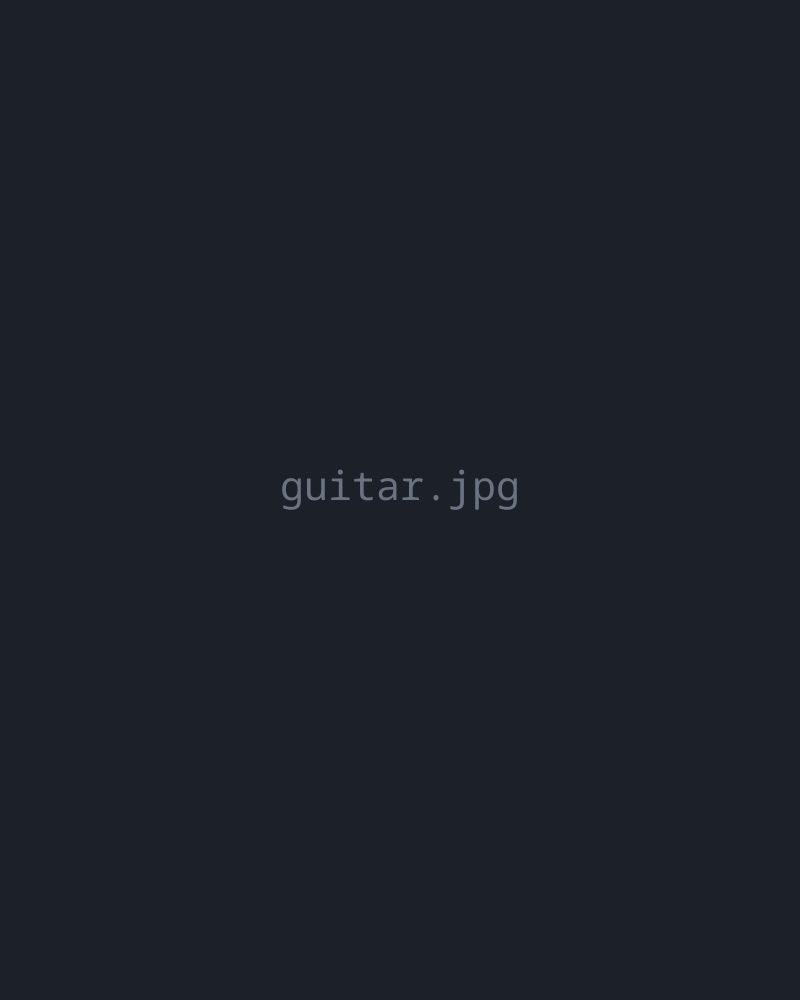
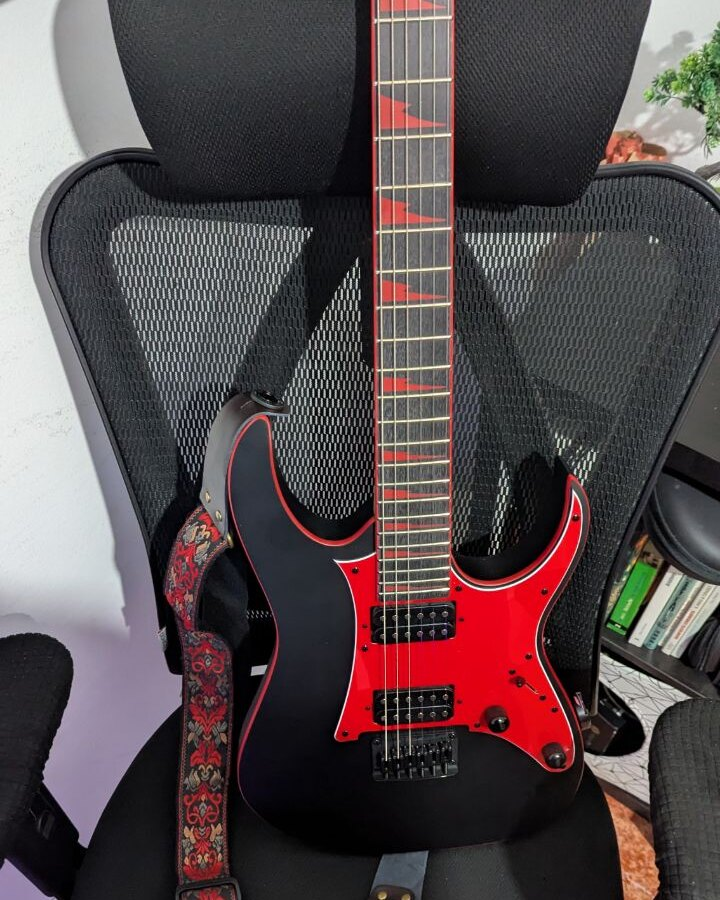
content(about): real boxing, guitar and dice photos; the role-playing stage gets its polaroid

diff --git a/tests/about-content.test.ts b/tests/about-content.test.ts
@@ -25,6 +25,7 @@ const photos = [
   'guitar',
   'chess',
   'boxing',
+  'rpg',
 ];
 
 describe.each(['es', 'en'])('about/%s.md', (lang) => {

diff --git a/src/content/about/es.md b/src/content/about/es.md
@@ -137,7 +137,7 @@ stages:
       - 'Me encanta la música, sobre todo el rock y el metal, y la guitarra eléctrica en particular. Toco una Ibanez.'
       - 'Aún estoy aprendiendo, con clases en directo, vídeos y cursos online. A veces me grabo en Linux para meterlo en alguno de mis vídeos.'
     photo: ../../assets/about/guitar.jpg
-    photoAlt: 'Placeholder: guitarra eléctrica'
+    photoAlt: 'Mi Ibanez eléctrica, negra con el golpeador rojo, apoyada en una silla con su correa bordada.'
     caption: 'Ibanez · rock y metal'
     facts:
       year: '2025'
@@ -167,7 +167,7 @@ stages:
       - 'Entreno en un club de mi barrio. Es todo amateur: nunca he competido, solo entreno.'
       - 'Me ayuda muchísimo a desconectar y a soltar todo el trabajo mental de este oficio. Es el único sitio donde no pienso en software.'
     photo: ../../assets/about/boxing.jpg
-    photoAlt: 'Placeholder: guantes de boxeo'
+    photoAlt: 'Mis guantes de boxeo Leone 1947 blancos, con el logo en dorado, sobre un suelo de parqué.'
     caption: 'Boxeo · Sevilla'
     facts:
       year: '2024'
@@ -181,5 +181,13 @@ stages:
     paragraphs:
       - 'Me encanta el rol. Juego a Dungeons & Dragons como jugador con un grupito de amigos cercanos repartidos por toda España, y a veces echo alguna partida presencial en clubes locales.'
       - 'Mi clase favorita es el bardo, y me encanta tocar mi guitarra durante las partidas.'
+    photo: ../../assets/about/rpg.jpg
+    photoAlt: 'Mis dados de rol, negros con los números en rojo, sobre un tapete de escritorio.'
+    caption: 'D&D · el bardo del grupo'
+    facts:
+      year: '-'
+      place: 'Online y en persona'
+      os: '-'
+      stack: '-'
 mock: false
 ---

diff --git a/src/content/about/en.md b/src/content/about/en.md
@@ -137,7 +137,7 @@ stages:
       - 'I love music, above all rock and metal, and the electric guitar in particular. I play an Ibanez.'
       - 'I am still learning, with live lessons, videos and online courses. Sometimes I record myself on Linux to use it in one of my videos.'
     photo: ../../assets/about/guitar.jpg
-    photoAlt: 'Placeholder: electric guitar'
+    photoAlt: 'My Ibanez electric guitar, black with a red pickguard, resting on a chair with its embroidered strap.'
     caption: 'Ibanez · rock and metal'
     facts:
       year: '2025'
@@ -167,7 +167,7 @@ stages:
       - 'I train at a club in my neighbourhood. It is all amateur: I have never competed, I just train.'
       - 'It helps me a lot to switch off and let go of all the mental load of this job. It is the only place where I do not think about software.'
     photo: ../../assets/about/boxing.jpg
-    photoAlt: 'Placeholder: boxing gloves'
+    photoAlt: 'My white Leone 1947 boxing gloves, with the logo in gold, on a parquet floor.'
     caption: 'Boxing · Seville'
     facts:
       year: '2024'
@@ -181,5 +181,13 @@ stages:
     paragraphs:
       - 'I love role-playing games. I play Dungeons & Dragons as a player with a small group of close friends spread all over Spain, and now and then I join an in-person game at local clubs.'
       - 'My favourite class is the bard, and I love playing my guitar during the sessions.'
+    photo: ../../assets/about/rpg.jpg
+    photoAlt: 'My role-playing dice, black with red numbers, on a desk mat.'
+    caption: 'D&D · the party bard'
+    facts:
+      year: '-'
+      place: 'Online and in person'
+      os: '-'
+      stack: '-'
 mock: false
 ---

diff --git a/docs/TEXTO_PENDIENTE.md b/docs/TEXTO_PENDIENTE.md
@@ -82,9 +82,9 @@ cada `photoAlt`, que hoy dice «Placeholder: …».
 - [ ] `desk-2026.jpg` y su texto alternativo
 - [ ] `linux.jpg` y su texto alternativo
 - [x] `cats.jpg` y su texto alternativo
-- [ ] `guitar.jpg` y su texto alternativo
+- [x] `guitar.jpg` y su texto alternativo
 - [x] `chess.jpg` y su texto alternativo
-- [ ] `boxing.jpg` y su texto alternativo
+- [x] `boxing.jpg` y su texto alternativo
 
 - [x] Todo lo anterior replicado en `en.md`
 
